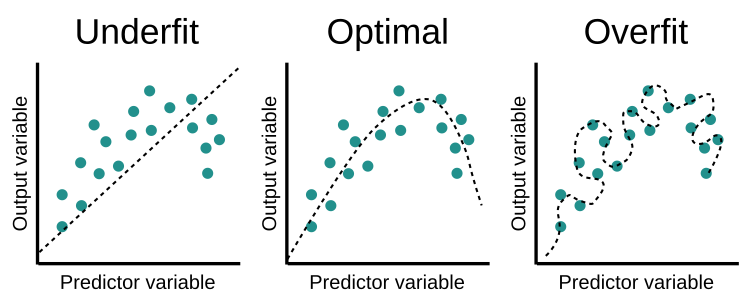
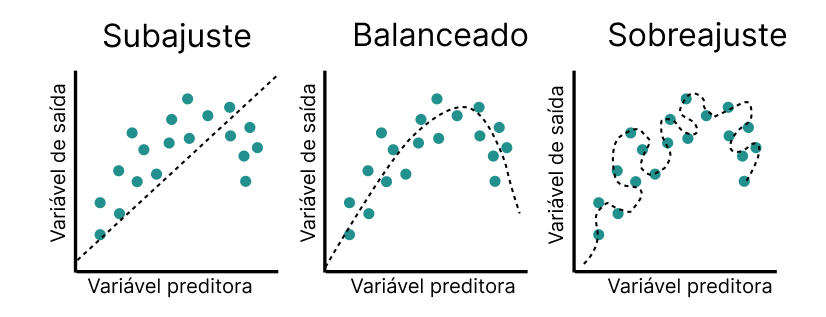
fix: imagens traduzidas

diff --git a/latex/segmentacao.tex b/latex/segmentacao.tex
@@ -16,7 +16,7 @@ A segmentação semântica começou a ter resultados satisfatórios a partir de 
 \begin{figure}[ht]
 	\caption{Exemplo de arquitetura de rede totalmente convolucional}
 	\centering % para centralizarmos a figura
-	\includegraphics[width=10cm]{figures/redes_totalmente_convolucionais.jpeg} % leia abaixo
+	\includegraphics[width=10cm]{figures/redes_totalmente_convolucionais.png} % leia abaixo
 	\legend{Fonte: \space\citeonline{dp_semantic_segmantation}}
 	\label{fig:rtc}
 \end{figure}

diff --git a/latex/aprendizado_maquina.tex b/latex/aprendizado_maquina.tex
@@ -11,7 +11,7 @@ Dentro desse nicho existem outros como: redes neurais, algoritmos evolucionário
 \begin{figure}[ht]
 	\caption{Ilustração da relação entre os principais tópicos de aprendizado de máquina}
 	\centering % para centralizarmos a figura
-	\includegraphics[width=10cm]{figures/diagrama_ann.jpg} % leia abaixo
+	\includegraphics[width=10cm]{figures/diagrama_ann.png} % leia abaixo
 	\legend{Fonte: \space\citeonline{ml_and_dp}}
 	\label{fig:diagrama_ann}
 \end{figure}

diff --git a/latex/EfficientPS.tex b/latex/EfficientPS.tex
@@ -5,7 +5,7 @@ EfficientPS é uma solução para a segmentação panóptica proposta no artigo 
 \begin{figure}[ht]
 	\caption{Arquitetura geral do EfficientPS}
 	\centering % para centralizarmos a figura
-	\includegraphics[width=15cm]{figures/arqEP.jpg} % leia abaixo
+	\includegraphics[width=15cm]{figures/arqEP.png} % leia abaixo
 	\legend{Fonte: \space\citeonline{mohan2020efficientps}}
 	\label{fig:arqEP}
 \end{figure}
